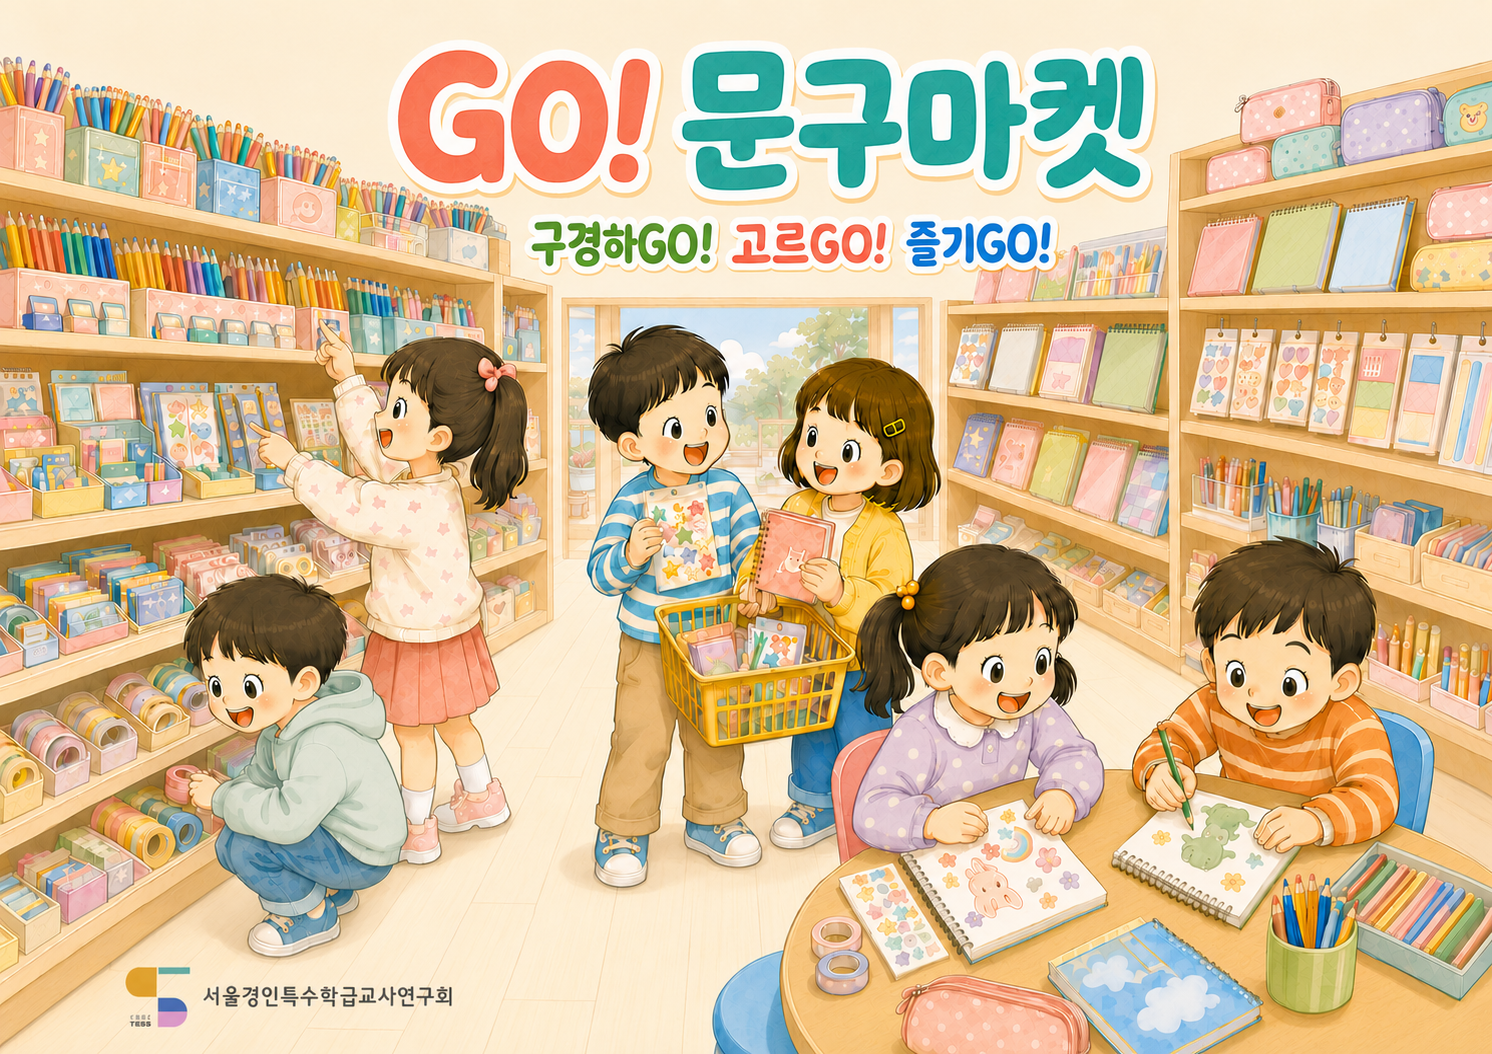
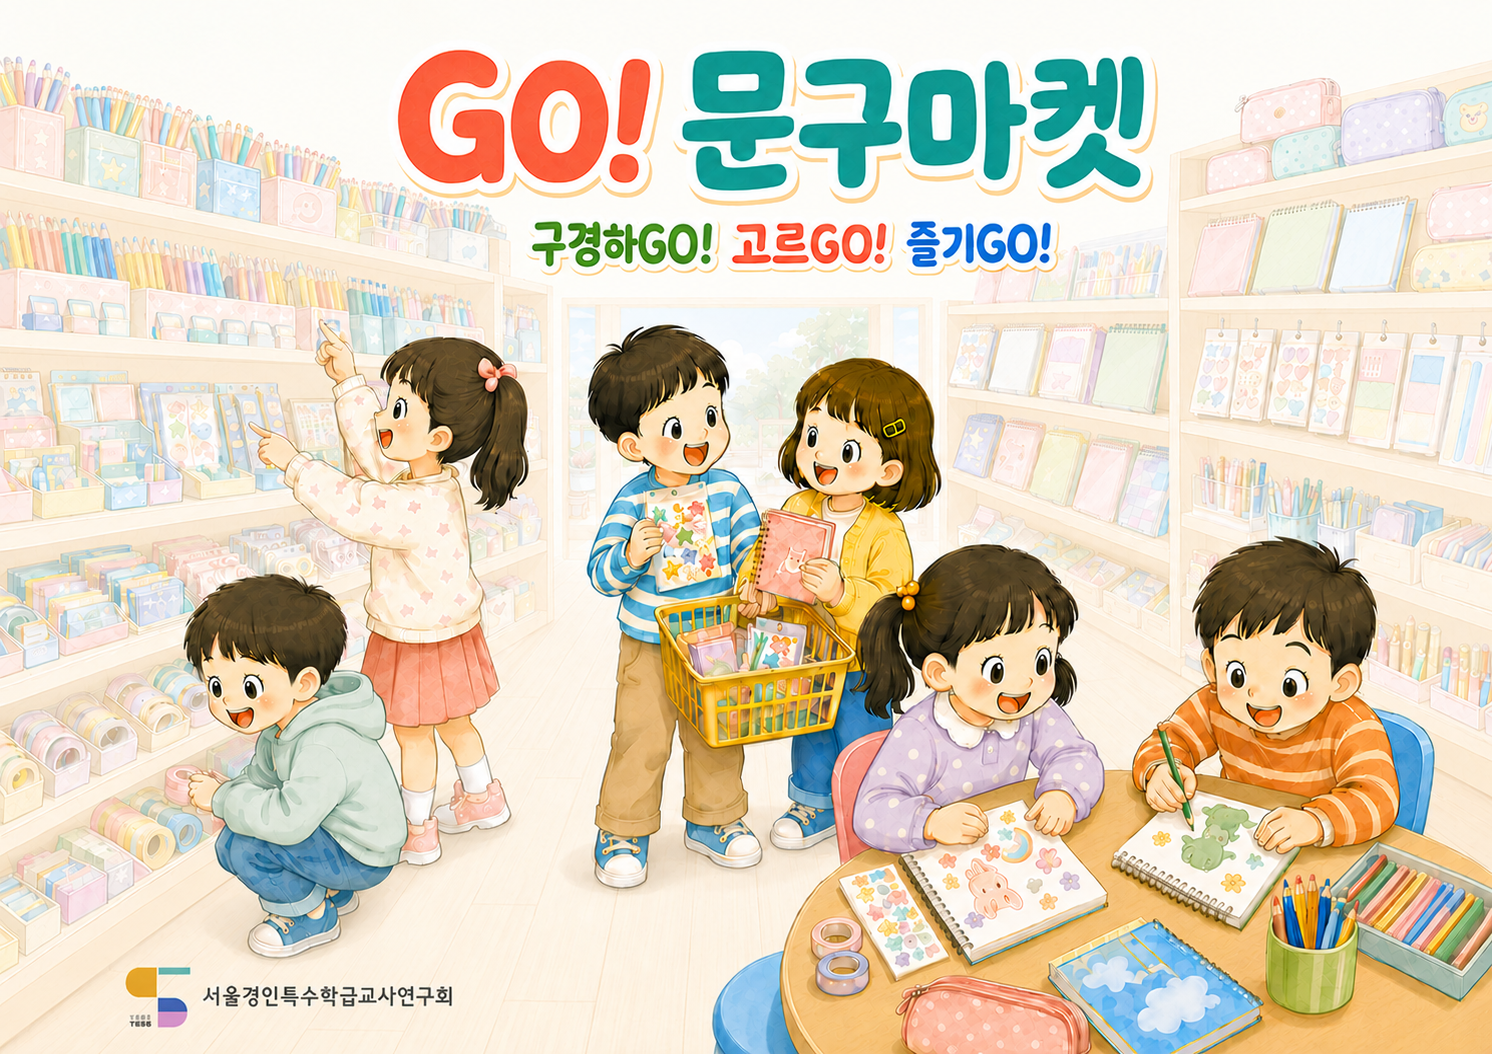
비밀 가게 문지기를 이모지 🧙 에서 마법사 그림으로
이미지\(비밀가게)암호 마법사.png 를 넣고, 없으면 이모지로 돌아가는
다른 그림 자리와 같은 방식(GateWizard)으로 연결.

- 이모지 3.6em(약 62px) -> 그림 131px 로 키워 '문지기'가 주인공으로 보이게
- 창이 420px이라 더 키우면 숫자판이 밀려서 clamp(96px,17vh,150px) 로 제한

문구점 메인 그림도 선생님이 새로 교체(제목·연구회 로고가 그림 안에 포함).

검증 1024x768: 문지기 창 420x568, 마법사 131x131, 스크롤 0.

diff --git a/index.html b/index.html
@@ -385,6 +385,9 @@ img.cicon{object-fit:contain;border-radius:.2em;}
 .modal.gate.shake{animation:gateShake .4s;}
 @keyframes gateShake{0%,100%{transform:translateX(0);}25%{transform:translateX(-9px);}75%{transform:translateX(9px);}}
 .gate-face{font-size:3.6em;line-height:1;}
+/* 마법사 그림 — 이모지(3.6em ≈ 62px)보다 크게 잡아 '문지기'가 주인공으로 보이게.
+   창 자체가 420px이라 너무 키우면 숫자판이 밀려 내려가니 여기까지가 한계예요. */
+.gate-wizard{width:auto;height:clamp(96px,17vh,150px);object-fit:contain;display:block;}
 .gate-msg{font-weight:900;font-size:1.3em;color:#3e2e63;min-height:1.6em;}
 .gate-dots{display:flex;gap:10px;}
 .gate-dot{width:18px;height:18px;border-radius:50%;border:3px solid #c9b6ea;background:#fff;}
@@ -6456,6 +6459,16 @@ function WalletKidImg(){
   return <img className="wallet-kid" src={srcs[i]} alt="지갑에 돈을 넣는 학생 그림"
     onError={()=>{ if(i<srcs.length-1) setI(i+1); else setFailed(true); }} />;
 }
+/* 문지기 마법사 — `이미지\(비밀가게)암호 마법사.png` 가 있으면 그 그림, 없으면 이모지 🧙
+   (다른 그림 자리와 같은 방식이라, 파일을 지우면 저절로 이모지로 돌아갑니다) */
+function GateWizard(){
+  const srcs = imgList('이미지/(비밀가게)암호 마법사');
+  const [i, setI] = useState(0);
+  const [failed, setFailed] = useState(false);
+  if(failed) return <div className="gate-face">🧙</div>;
+  return <img className="gate-wizard" src={srcs[i]} alt=""
+    onError={()=>{ if(i<srcs.length-1) setI(i+1); else setFailed(true); }} />;
+}
 /* ---- 🔒 비밀 가게 문지기 : "암호를 대시오!" ----
    길게 누르기만으로 막으면 눈치 빠른 학생은 금방 알아채요.
    암호는 선생님만 알고, 학생에게는 '재미있는 관문'이 됩니다.
@@ -6482,7 +6495,7 @@ function SecretGate({code, onOpen, onClose}){
   return (
     <div className="overlay" onClick={onClose}>
       <div className={"modal gate"+(shake?' shake':'')} onClick={e=>e.stopPropagation()}>
-        <div className="gate-face">🧙</div>
+        <GateWizard />
         <div className="gate-msg">{msg}</div>
         <div className="gate-dots">
           {Array.from({length: String(code||'1234').length}).map((_,i)=>(
